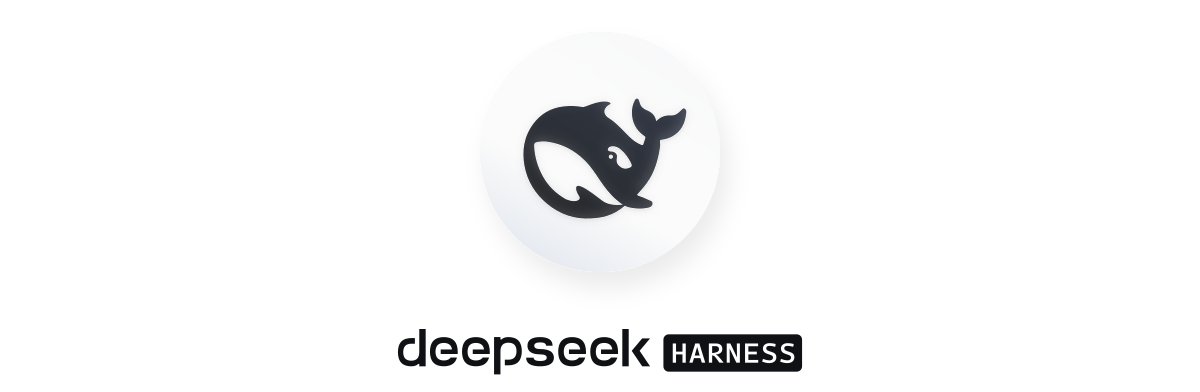
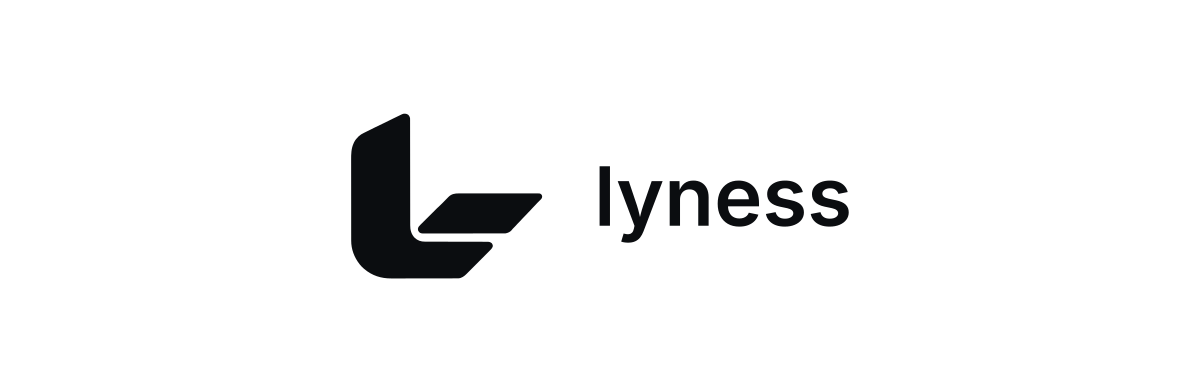
feat(brand): desktop 的 11 个品牌资产一直是官方鲸鱼，按品牌指南重做
`apps/desktop` 下的应用图标、托盘图标、安装器横幅、卸载器侧栏与欢迎页字标与
上游逐字节相同——从未替换过。也就是说打包出来的桌面端，Dock 图标、安装向导
横幅、欢迎页字标全是官方 DeepSeek 品牌。CUSTOM.md 的「Logo 合并后必须恢复」
只覆盖了 web 与 website，desktop 这一套从来没进过清单。

全部由 .fork/brand-output 的两个既有矢量母版合成，不引入新图源：应用图标是
圆角方板加居中标记，横幅与字标是标记加字标的横向锁定，侧栏是纯色底加居中标记。

遵循 docs/LYNESS-BRAND-GUIDELINES.md：单色 #0B0D10 on #FFFFFF（§9.1），无渐变、
发光、阴影、3D（§9.2，上游 icon.svg 的 <filter> 投影因此去掉）。圆角取平台惯例
22.37%，不取 §12 的 UI 圆角刻度——§12 管的是界面容器，应用图标是平台遮罩形状，
按 16px 会在 Dock 里呈现为近乎直角的方块。图形占画布 70%。

欢迎页字标改为两个定色文件加 <picture> 媒体查询选择，与 favicon 同一理由：SVG
内部媒体查询跨引擎不可靠。画布取锁定件自然宽度 121x40，而非上游按长文字标定的
472x40——lyness 短得多，沿用会让 logo 显得很小。

两处附带修复：render-tray-icon.ts 要求矢量源含 `<g id="tray-glyph">`，生成器
现在遵守这个契约；该文件两处注释仍写着 whale，是改名漏掉的。

验证：alpha 与尺寸逐项对齐上游规格；desktop 全套 1277 个测试通过；欢迎页新增
两条 <source> 断言；lint 与 typecheck 为 0。

Changed region(s): [[0.2775, 0.2449, 0.7092, 0.7347], [0.3083, 0.8265, 0.6783, 0.949]]

diff --git a/apps/desktop/src/client/WelcomePage.tsx b/apps/desktop/src/client/WelcomePage.tsx
@@ -171,7 +171,13 @@ export function Welcome({ api }: { api: WelcomeApi }) {
     {expiryNotice && <Toast text={m.welcomeSessionExpired} onDone={() => { setExpiryNotice(false) }} />}
     <div className="titlebar" aria-hidden="true" />
     <main className="welcome" aria-labelledby={heading}>
-      <img className="brand" src="assets/welcome-brand.svg" alt={m.welcomeBrand} width="472" height="40" />
+      {/* Two fixed-colour files selected by the document media query: an SVG
+          media query inside one file is unreliable across engines, which is why
+          the brand guidelines keep each asset monochrome and single-valued. */}
+      <picture>
+        <source srcSet="assets/welcome-brand-dark.svg" media="(prefers-color-scheme: dark)" />
+        <img className="brand" src="assets/welcome-brand.svg" alt={m.welcomeBrand} width="121" height="40" />
+      </picture>
       <div id="tagline" className="tagline" hidden={page !== 'entry'}>
         <h1 id="welcome-heading"><span>{m.welcomeTaglineBefore}</span><em>{m.welcomeTaglineBrand}</em><span>{m.welcomeTaglineAfter}</span></h1>
         <p id="welcome-description">{m.welcomeDescription}</p>

diff --git a/apps/desktop/scripts/render-tray-icon.ts b/apps/desktop/scripts/render-tray-icon.ts
@@ -1,5 +1,5 @@
 /**
- * Render the Windows tray icon with an enlarged whale from `resources/icon-windows.svg`.
+ * Render the Windows tray icon with an enlarged mark from `resources/icon-windows.svg`.
  *
  * The tray shows the icon at 16 logical pixels, so Windows picks one of the
  * bundled bitmaps by display scale. Each size is rasterized from the vector
@@ -101,7 +101,7 @@ export async function renderTrayIconEntries(svg: Buffer, sizes: readonly number[
   const source = svg.toString('utf8')
   const glyph = '<g id="tray-glyph"'
   if (!source.includes(glyph)) throw new Error('tray icon: SVG requires a tray-glyph group')
-  // Scale around the application tile center, retaining its background and the whale's aspect ratio.
+  // Scale around the application tile center, retaining its background and the mark's aspect ratio.
   const tray = Buffer.from(source.replace(glyph, `${glyph} transform="translate(552 544) scale(1.2) translate(-552 -544)"`))
   return Promise.all(sizes.map(async size => ({
     size,

diff --git a/apps/desktop/tests/welcome-renderer.client.spec.tsx b/apps/desktop/tests/welcome-renderer.client.spec.tsx
@@ -50,6 +50,8 @@ describe('desktop welcome presentation', () => {
     const view = mount(language)
     expect(view.document.documentElement.lang).toBe(language)
     expect(view.document.querySelector('img')!.getAttribute('src')).toBe('assets/welcome-brand.svg')
+    expect(view.document.querySelector('picture source')!.getAttribute('srcset')).toBe('assets/welcome-brand-dark.svg')
+    expect(view.document.querySelector('picture source')!.getAttribute('media')).toBe('(prefers-color-scheme: dark)')
     await expect(view.copy()).toMatchFileSnapshot(`./expected/welcome/${language}.expected.txt`)
     fireEvent.click(view.button('#api-key'))
     expect(view.document.activeElement).toBe(view.input)
